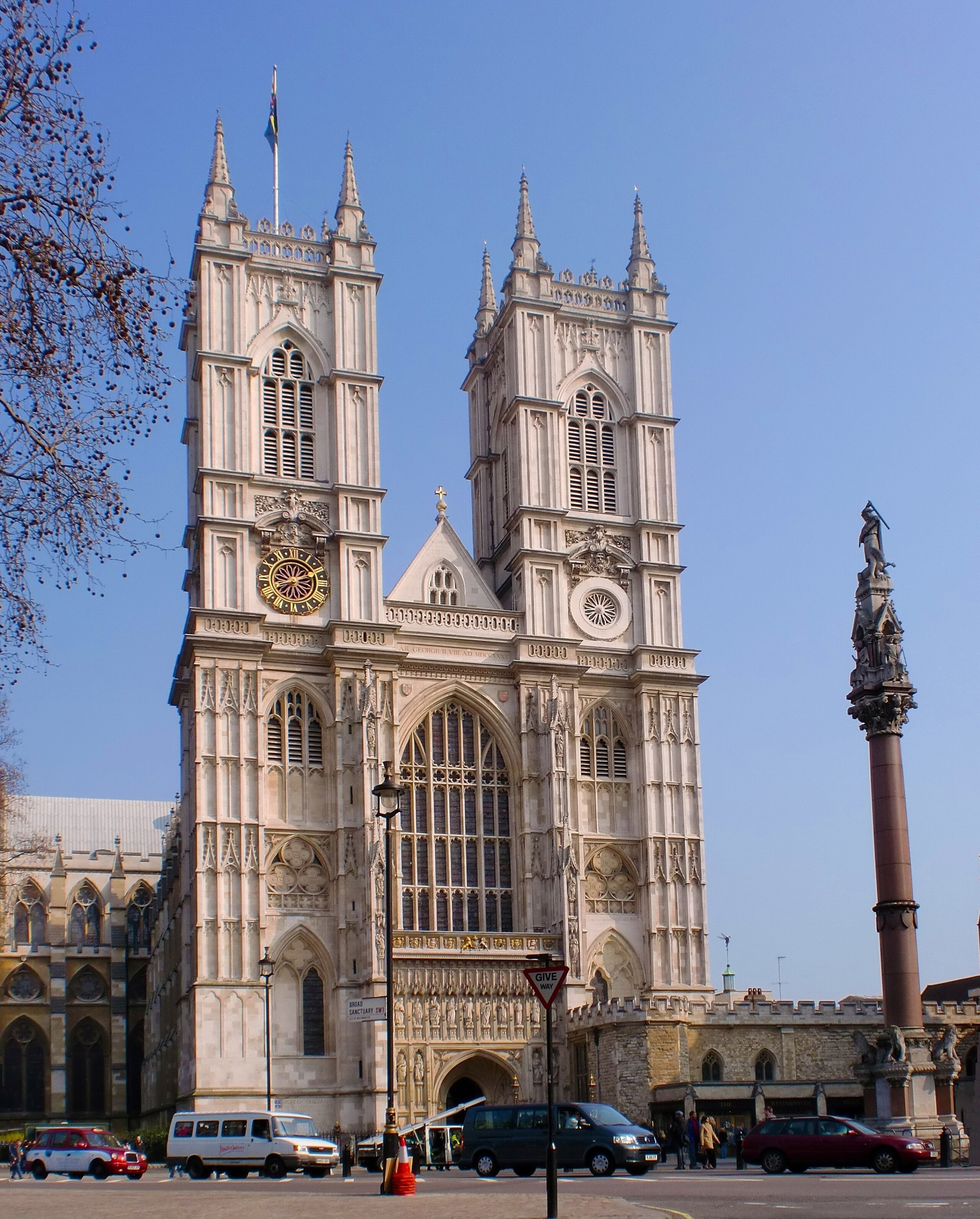
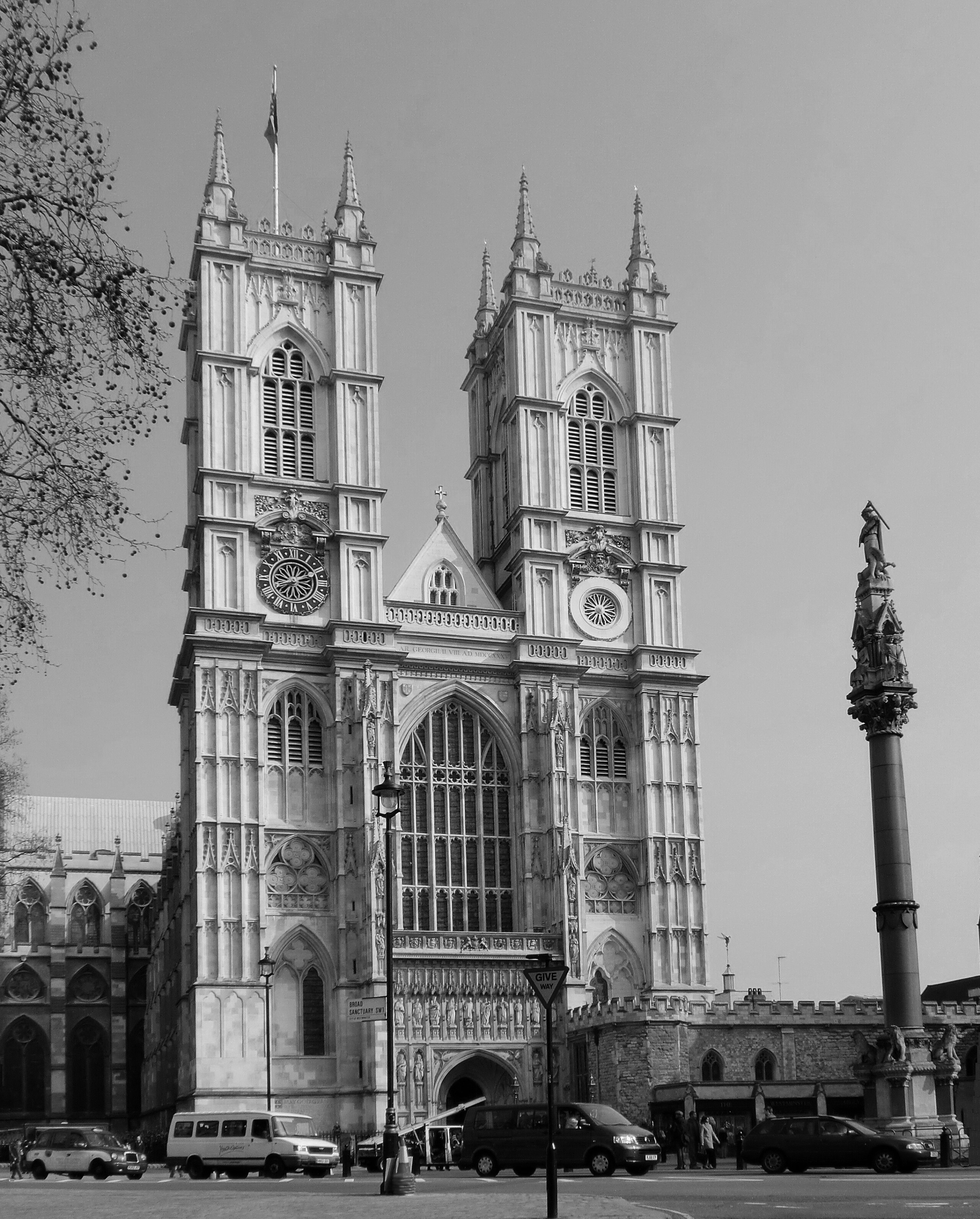
project 2 update 7

diff --git a/Project2/bar.js b/Project2/bar.js
@@ -3,7 +3,6 @@ let mouse
 let stamps = [];
 let angle = 0
 //set variable n=9 to the 9 duplicaiton of the models
-let n = 9
 let radius
 let c = 0
 let cup
@@ -17,7 +16,7 @@ function setup(){
   c.parent("bar-page");
   pixelDensity(0.75);
   frameRate(10);
-//   noStroke()
+  noStroke()
 
   g = createGraphics(width, height);
   g.loadPixels();
@@ -28,7 +27,7 @@ function draw(){
   //adjust the cemera, set the perspective from font top
 //   camera(radius*0.5, -radius*2, radius*4)
   background("#EDD68C");
-  pointLight(100, 100, 100, 30, -40, 30);
+  pointLight(80, 80, 250, 30, -40, 30);
   for(let i = 0; i < g.pixels.length; i += 4){
     let n = random(0, 100);
     g.pixels[i]   = n+50;
@@ -61,15 +60,14 @@ function draw(){
   image(mouse, windowWidth/-2+mouseX - w/2, windowHeight/-2+mouseY - h/2, w, h);
 //   c = abs(sin(frameCount*0.9)-0.1*i)*255
     push()
-    translate(0,-windowHeight/2*0.4,0)
+    translate(-windowHeight/2*0.75,-windowHeight/2*0.36,0)
     //spin each cup arounf their Y axis
     rotateY(frameCount * 0.1)
     //overlay 2 materials to a better effect
-    specularMaterial(0,0,0);
-    emissiveMaterial(0,0,255)
+    specularMaterial(0,0,255);
     // box(radius*0.25)
     rotateX(90)
-    scale(0.8)
+    scale(0.9)
     model(cup)
     pop()
   

diff --git a/Project2/index.html b/Project2/index.html
@@ -61,7 +61,7 @@
     <div class="grid2">
         <div class="tile2"><a href="https://maps.app.goo.gl/L5qjG4kdhRnq9dCg9"><img src="./img/TrafalgarSquare.jpg" alt=""></a></div>
         <div class="tile-bold-text">TRAFALGAR SQUARE <div class="tile2-text">Trafalgar Square is a public square in the City of Westminster, London, located directly north of the Palace of Westminster. It is named after the Battle of Trafalgar, a naval battle fought in 1805 during the Napoleonic Wars.</div></div>  
-        <div class="tile-bold-text">TOWER BRIDGE <div class="tile2-text">Tower Bridge is a combined bascule and suspension bridge in London, over the River Thames. It is one of the most famous bridges in the world and a symbol of London.</div></div>
+        <div class="tile-bold-text">TOWER BRIDGE <div class="tile2-text">Tower Bridge is a combined bascule and suspension bridge in London, over the River Thames. It is one of the most famous bridges in the world and a symbol of London. It is one of London’s most famous landmarks and a key feature of the city’s skyline. </div></div>
         <div class="tile2"><a href="https://maps.app.goo.gl/NuVkSnrz5mN173RE7"><img src="./img/TowerBridge.png" alt=""></a></div>
 
     </div>

diff --git a/Project2/bar.html b/Project2/bar.html
@@ -12,7 +12,7 @@
     </div>
     <hr>
     <div class = "grid1">
-        <div class="tile1"><img src="./img/Cocktail1.png" alt=""></div>
+        <div class="tile1"> </div>
         <div class="tile1"><img src="./img/Cocktail2.png" alt=""></div>
         <div class="tile1"><img src="./img/Cocktail3.png" alt=""></div>
         <div class="tile1"><img src="./img/Cocktail4.png" alt=""></div>
